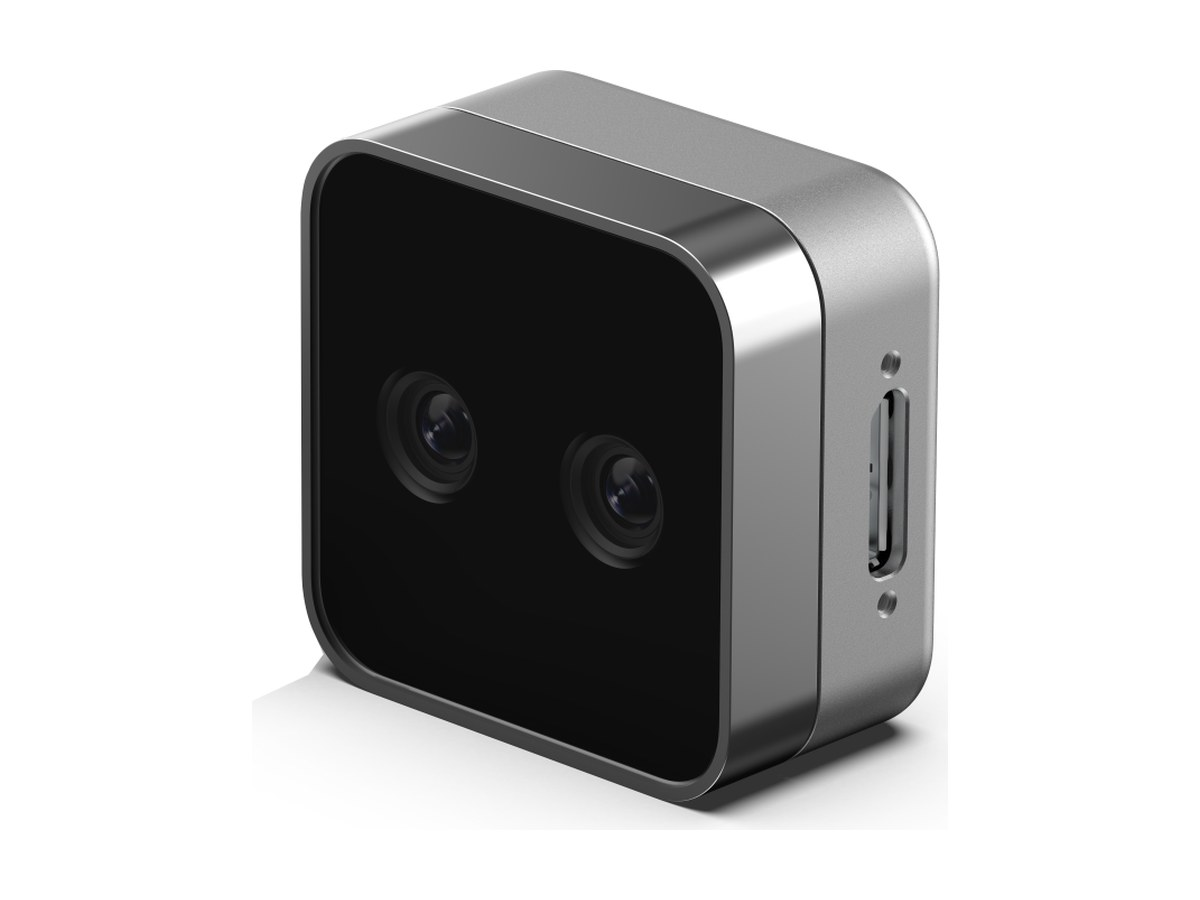
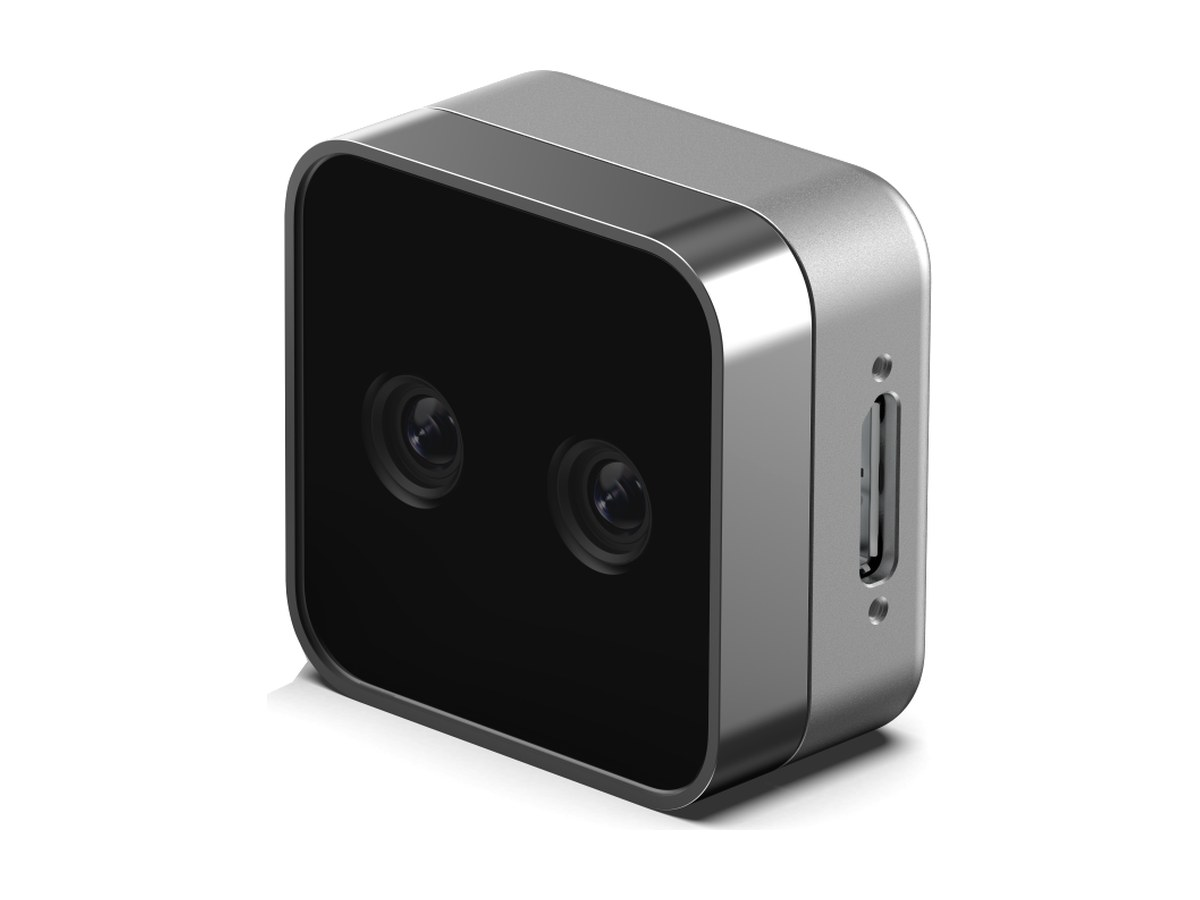
Show the hardware photos on white in their popups
A hardware tile's picture is a product shot on a white background. In
the popup's frame, which is wider than the picture on a laptop, it had
black bars at its sides. The frame is now white for these pictures.
Gallery photos and videos keep the black frame.

Also cleans the faint grey patch around the camera in its picture.

diff --git a/theme/templates/app_upcoming.html b/theme/templates/app_upcoming.html
@@ -32,7 +32,7 @@
             {% if it.youtube %}
             <a href="{{ it.watch }}" target="_blank" rel="noopener" {{ ui.pop(it.name, '', it.embed, 'Open on YouTube', 'video') }}>
             {% else %}
-            <a href="{{ SITEURL }}/images/{{ it.photo }}" data-view="photo" data-alt="{{ it.caption|e }}" data-credit="{{ (it.credit or '')|e }}">
+            <a href="{{ SITEURL }}/images/{{ it.photo }}" data-view="photo" data-light data-alt="{{ it.caption|e }}" data-credit="{{ (it.credit or '')|e }}">
             {% endif %}
               <span class="n">{{ it.count|e }}</span><b>{{ it.name|e }}</b><span class="kph"><img src="{{ SITEURL }}/images/{{ it.photo }}" alt="" fetchpriority="low" decoding="async"></span>
             </a>

diff --git a/theme/static/js/app.js b/theme/static/js/app.js
@@ -231,6 +231,8 @@ function show(link) {
   const text = [link.dataset.cap, link.dataset.credit].filter(Boolean).join('  ·  ');
   caption.replaceChildren(text);
   viewer.classList.toggle('nocap', !link.dataset.cap);
+  // A product picture on white: no black around it where it does not fill the frame.
+  viewer.classList.toggle('light', 'light' in link.dataset);
   if (kind === 'map') {
     // The link under the map opens the Maps app: Apple Maps on an iPhone or
     // iPad, where it is the one already installed, and Google Maps elsewhere.

diff --git a/theme/static/css/app.css b/theme/static/css/app.css
@@ -1723,6 +1723,12 @@ a.mini {
 .vstage iframe {
   background: var(--paper);
 }
+/* A product picture on a white background: the frame is white too, so the
+   picture has no black bars beside it. */
+.viewer.light .vstage,
+.viewer.light .vstage img {
+  background: var(--white);
+}
 .vcap {
   display: -webkit-box;
   -webkit-box-orient: vertical;
